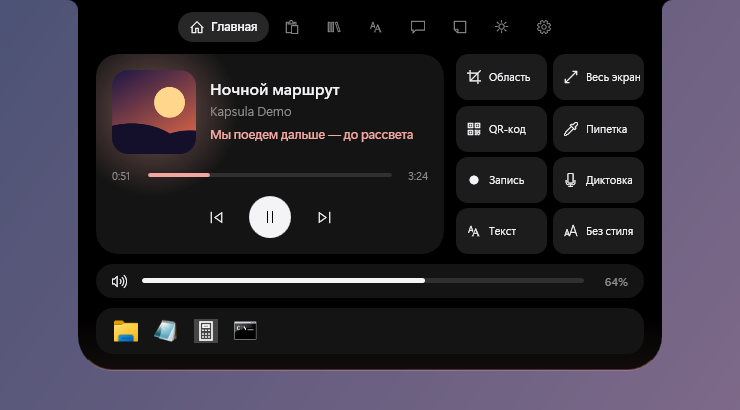
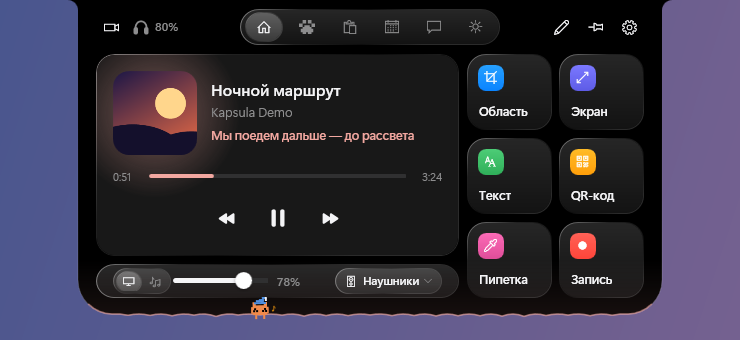
0.7.3: проверка всего дизайна — демо-режим на всех вкладках, видимая чашка «Не засыпать», погода без обрезков, компактные настройки, новые снимки в README
- Демо-режим (--demo, DemoData.cs): буфер обмена не читается (выдуманная история), погода не скачивается (выдуманный прогноз), Wi-Fi, Bluetooth и наушники придуманные, сайт чата не открывается — снимок любой вкладки можно выкладывать.
- Чашка «Не засыпать» — в блоке «Нагрузка» на вкладке «Система», рядом с батареей (строка быстрых настроек, где она была, ни на одной вкладке не показывалась).
- Погода: подпись погоды переносится, а не обрезается; подсказка «Введите город…» не вылезает за края; пустая погода — со зверьком.
- Чат в демо: вместо пустого поля — зверёк и что здесь откроется.
- Настройки: компактная боковая панель — все разделы видны без прокрутки.
- README: все снимки новые (капсула, уголок зверька, главная, мини-плеер, «Сегодня», заметки, буфер, текст, погода, система, командная строка, карточки, настройки), снимки сделаны на выдуманных данных.
- Сценарий KAPSULA_RIDEPET=10 — полный обход всех экранов для снимков.
- Тесты: демо-погода, сети и Bluetooth (308).

diff --git a/src/IslandWindow.cs b/src/IslandWindow.cs
@@ -3646,6 +3646,7 @@ namespace Kapsula
 
         void DuckTick()
         {
+            if (Demo) return;   // в демо сайт чата не открываем
             bool want = Ai.Duck && state == 2 && page == PChat && !hiddenFs && !autoHidden
                 && so[2].X > 0.55 && Math.Abs(sw.X - sw.Target) < 24 && Math.Abs(sy.X - sy.Target) < 3;
             if (!want)
@@ -3680,6 +3681,13 @@ namespace Kapsula
                 RenderWebRow();
                 chatEmpty.Children.Clear();
                 chatEmpty.Visibility = Visibility.Visible;
+                if (Demo)
+                {
+                    // демо: сайт не открываем — вместо него зверёк и что здесь будет
+                    chatEmpty.Children.Add(PetSpot("idle", 0, 12, "chat"));
+                    chatEmpty.Children.Add(new TextBlock { Text = "Здесь откроется " + WebNames[WebIndex()] + " — без ключа и без входа", Foreground = Dim, FontSize = 13, TextAlignment = TextAlignment.Center, HorizontalAlignment = HorizontalAlignment.Center, TextWrapping = TextWrapping.Wrap, MaxWidth = 440 });
+                    return;
+                }
                 bool bad = duck != null && duck.Error != null;
                 // страница уже загружена — под окном браузера ничего не пишем, иначе при каждом открытии мелькает «Открываю…»
                 if (!bad && duck != null && duck.Loaded) return;
@@ -4227,9 +4235,10 @@ namespace Kapsula
         {
             try
             {
-                string t = Clipboard.ContainsText() ? Clipboard.GetText() : "";
+                string full = Demo ? DemoText : Clipboard.ContainsText() ? Clipboard.GetText() : "";   // в демо — выдуманный текст, буфер не читаем
+                string t = full;
                 if (t.Length > 400) t = t.Substring(0, 400);
-                if (textStats != null) textStats.Text = t == "" ? "" : TextTools.Stats(Clipboard.GetText());
+                if (textStats != null) textStats.Text = t == "" ? "" : TextTools.Stats(full);
                 textPreview.Text = t == "" ? "Пусто — скопируйте текст" : t;
                 textPreview.Foreground = t == "" ? Dim : Fg;
             }
@@ -4758,7 +4767,7 @@ namespace Kapsula
             skyTop.Children.Add(wIconHost);
             wSymbol = new TextBlock();   // текстовый значок больше не показывается — вместо него рисунок
             wTemp = new TextBlock { Foreground = Brushes.White, FontSize = 52, FontWeight = FontWeights.Light, Margin = new Thickness(-3, -2, 0, -6) };
-            wDesc = new TextBlock { Foreground = Brushes.White, FontSize = 14, FontWeight = FontWeights.SemiBold };
+            wDesc = new TextBlock { Foreground = Brushes.White, FontSize = 14, FontWeight = FontWeights.SemiBold, TextWrapping = TextWrapping.Wrap, LineHeight = 17, LineStackingStrategy = LineStackingStrategy.BlockLineHeight };   // «Переменная облачность» — в две строки, а не обрезком
             wFeels = new TextBlock { Foreground = Brushes.White, Opacity = 0.85, FontSize = 11.5, Margin = new Thickness(0, 2, 0, 0) };
             wHiLo = new TextBlock { Foreground = Brushes.White, Opacity = 0.85, FontSize = 11.5 };
             skyTop.Children.Add(wTemp); skyTop.Children.Add(wDesc); skyTop.Children.Add(wFeels); skyTop.Children.Add(wHiLo);
@@ -5071,6 +5080,7 @@ namespace Kapsula
 
         void RefreshWeather(string city)
         {
+            if (Demo) return;   // в демо — выдуманный прогноз, в сеть не ходим
             if (string.IsNullOrEmpty(city) || weatherBusy) return;
             weatherBusy = true;
             weatherAt = Environment.TickCount;
@@ -5169,7 +5179,8 @@ namespace Kapsula
             if (weather == null || weather.Error != null)
             {
                 string msg = weather != null ? weather.Error : "Введите город и нажмите «Показать».\nТолько после этого приложение обратится в сеть — к open-meteo.com (если он недоступен — к OpenStreetMap и MET Norway).";
-                weatherBody.Children.Add(new TextBlock { Text = msg, Foreground = Dim, FontSize = 13, TextAlignment = TextAlignment.Center, HorizontalAlignment = HorizontalAlignment.Center, Margin = new Thickness(0, 60, 0, 0), LineHeight = 20 });
+                weatherBody.Children.Add(PetSpot(weather != null ? "sad" : "idle", 18, 10, "weather"));   // пустая погода — тоже со зверьком, как остальные пустые списки
+                weatherBody.Children.Add(new TextBlock { Text = msg, Foreground = Dim, FontSize = 13, TextAlignment = TextAlignment.Center, HorizontalAlignment = HorizontalAlignment.Center, TextWrapping = TextWrapping.Wrap, MaxWidth = 440, Margin = new Thickness(0, 60, 0, 0), LineHeight = 20 });
                 return;
             }
             FillWeather();
@@ -5253,7 +5264,7 @@ namespace Kapsula
             var stats = new Border { Background = Glass.Fill, BorderBrush = Glass.Rim, BorderThickness = new Thickness(1), CornerRadius = new CornerRadius(18), Padding = new Thickness(16, 8, 16, 8) };
             // процессор и память — в одну строку, чтобы над ними поместились яркость и питание
             var rows = new UniformGrid { Rows = 1, Columns = 2 };
-            double statW = (PageW - 32 - 24) / 2 - 96 - 48 + 4 - (BatteryPresent() ? 38 : 0);   // у ноутбука справа — заряд батареи
+            double statW = (PageW - 32 - 24) / 2 - 96 - 48 + 4 - (BatteryPresent() ? 38 : 0) - 19;   // у ноутбука справа — заряд батареи, за ним чашка «Не засыпать»
             cpuBar = new Bar(statW, 5, accent, 22);
             ramBar = new Bar(statW, 5, new SolidColorBrush(Color.FromRgb(0x5A, 0xA9, 0xFF)), 22);
             rows.Children.Add(StatRow("Процессор", cpuBar, out cpuText));
@@ -5264,6 +5275,11 @@ namespace Kapsula
             statsRow.Children.Add(rows);
             FrameworkElement chip = BuildBatChip();
             Grid.SetColumn(chip, 1); statsRow.Children.Add(chip);
+            // «Не засыпать» — чашка рядом с батареей: всё про питание в одном месте
+            statsRow.ColumnDefinitions.Add(new ColumnDefinition { Width = GridLength.Auto });
+            Border cup = AwakeBtn(32);
+            cup.Margin = new Thickness(6, 0, -4, 0); cup.VerticalAlignment = VerticalAlignment.Center;
+            Grid.SetColumn(cup, 2); statsRow.Children.Add(cup);
             stats.Child = statsRow;
             sb.Add("load", "Нагрузка", stats, 0, 3, 4, 1, false);
             WireBoard(sb);
@@ -5380,6 +5396,7 @@ namespace Kapsula
 
         void ScanWifi()
         {
+            if (Demo) { wifiNets = DemoWifi(); RenderWifi(); return; }   // в демо — придуманные сети
             if (wifiBusy) return;
             wifiBusy = true;
             if (wifiNets == null) { wifiList.Children.Clear(); wifiList.Children.Add(new TextBlock { Text = "Ищу сети…", Foreground = Dim, FontSize = 13, HorizontalAlignment = HorizontalAlignment.Center, Margin = new Thickness(0, 70, 0, 0) }); }
@@ -5475,6 +5492,7 @@ namespace Kapsula
         // Состояние сети, Bluetooth и VPN опрашивается в фоне, чтобы интерфейс не замирал.
         void RefreshControl()
         {
+            if (Demo) { control = DemoControl(); RenderControl(); return; }   // в демо — придуманные сеть и Bluetooth
             if (controlBusy) return;
             controlBusy = true;
             ThreadPool.QueueUserWorkItem(delegate
@@ -7371,6 +7389,7 @@ namespace Kapsula
         void BudsChipRefresh()
         {
             if (!Earbuds.Enabled) { budsChipPct = -1; return; }
+            if (Demo) { budsChipName = "Наушники"; budsChipPct = 80; BudsChipRender(); return; }   // в демо — выдуманные наушники, свои не опрашиваем
             if (System.Threading.Interlocked.Exchange(ref budsChipBusy, 1) != 0) return;
             System.Threading.ThreadPool.QueueUserWorkItem(delegate
             {
@@ -8226,7 +8245,7 @@ namespace Kapsula
             if (src != null && src.CompositionTarget != null) dpi = src.CompositionTarget.TransformToDevice.M11;
             SetNoActivate(true);
             HwndSource.FromHwnd(hwnd).AddHook(WndProc);
-            Native.AddClipboardFormatListener(hwnd);
+            if (!Demo) Native.AddClipboardFormatListener(hwnd);   // в демо буфер обмена не читается
             // Остров не попадает на скриншоты, записи и трансляции.
             ApplyCapture();
             PlaceWindow();
@@ -8334,6 +8353,7 @@ namespace Kapsula
                 media = new MediaInfo { Has = true, Playing = true, Title = "Ночной маршрут", Artist = "Kapsula Demo", Cover = DemoCover(), Pos = 47, Dur = 204, PosAt = DateTime.UtcNow };
                 RenderMedia();
                 LoadLauncher();
+                DemoSeed();   // буфер, погода — выдуманные
                 if (Environment.GetEnvironmentVariable("KAPSULA_TRACKTEST") == "1")
                 {
                     // проверка перехода: каждые 2,5 с другой трек (обложка — перевёрнутая, чтобы было видно её смену)

diff --git a/src/DemoData.cs b/src/DemoData.cs
@@ -1,0 +1,80 @@
+// Kapsula — «остров» для Windows. Часть исходного кода: DemoData.cs
+// Демо-режим (ключ --demo) — для снимков в описание: на всех вкладках выдуманные данные, а не ваши.
+// Буфер обмена не читается (в истории — придуманные записи), погода не скачивается (выдуманный город
+// и прогноз), сети Wi-Fi и устройства Bluetooth — тоже придуманные. Так снимок любой вкладки можно
+// выкладывать: ничего личного на него не попадёт.
+using System;
+using System.Collections.Generic;
+
+namespace Kapsula
+{
+    partial class IslandWindow
+    {
+        const string DemoText = "Kapsula — остров для Windows: музыка, заметки, буфер и зверёк в одной капсуле.";
+
+        // Из блока --demo при запуске: история буфера и погода
+        void DemoSeed()
+        {
+            clips.Clear();
+            DateTime now = DateTime.Now;
+            clips.Add(new ClipItem { Text = "Встреча в 15:00, переговорная 2", Source = "Заметки", At = now.AddMinutes(-2) });
+            clips.Add(new ClipItem { Text = "https://github.com/cxxperman/kapsula", Source = "Браузер", At = now.AddMinutes(-9) });
+            clips.Add(new ClipItem { Text = "#F08A4B", Source = "Пипетка", At = now.AddMinutes(-16) });
+            clips.Add(new ClipItem { Text = "var pet = new PetView(2.6, Ink);", Source = "Редактор кода", At = now.AddMinutes(-34) });
+            clips.Add(new ClipItem { Text = DemoText, Source = "Kapsula", At = now.AddHours(-2), Pinned = true });
+            weather = DemoWeather();
+            if (weatherGrid != null) RenderWeather();   // вкладка уже построена с пустой погодой
+            RenderClips();   // список уже построен пустым — перерисовать
+        }
+
+        static string DemoDeg(double v) { return Math.Round(v).ToString("0").Replace("-", "−") + "°"; }
+
+        // Прохладный осенний день: облачно, к вечеру небольшой дождь
+        static WeatherData DemoWeather()
+        {
+            var w = new WeatherData
+            {
+                City = "Нью-Йорк", Source = "демо", Temp = 8, Max = 10, Min = 3, Feels = 5, Wind = 4.2, WindDir = 225, Humidity = 72, Pressure = 758,
+                Uv = 1.4, RainProb = 35, DewPoint = 3, PressureTrend = -0.6, UvTomorrow = 2, RainMm = 0.6, Sunrise = "06:41", Sunset = "16:37", IsDay = true, Code = 2
+            };
+            DateTime h0 = DateTime.Now.Date.AddHours(DateTime.Now.Hour);
+            int[] codes = { 2, 2, 3, 3, 61, 61, 3, 2, 1, 1, 2, 3 };
+            double[] temps = { 8, 9, 9, 8, 7, 7, 6, 5, 5, 4, 4, 3 };
+            for (int i = 0; i < codes.Length; i++)
+            {
+                DateTime t = h0.AddHours(i);
+                bool day = t.Hour >= 7 && t.Hour < 17;
+                w.Hours.Add(new string[] { t.ToString("HH:mm"), Weather.Symbol(codes[i]), DemoDeg(temps[i]), codes[i].ToString(), day ? "1" : "0" });
+            }
+            var ru = new System.Globalization.CultureInfo("ru-RU");
+            int[] dcodes = { 2, 61, 3, 1, 0, 3, 71 };
+            double[] dmax = { 10, 9, 7, 8, 11, 6, 2 }, dmin = { 3, 4, 2, 1, 3, 0, -3 };
+            for (int i = 0; i < dcodes.Length; i++)
+            {
+                string dn = ru.DateTimeFormat.GetAbbreviatedDayName(DateTime.Today.AddDays(i).DayOfWeek);
+                w.Days.Add(new string[] { i == 0 ? "Сегодня" : char.ToUpper(dn[0]) + dn.Substring(1), Weather.Symbol(dcodes[i]), DemoDeg(dmax[i]), DemoDeg(dmin[i]), dcodes[i].ToString() });
+            }
+            return w;
+        }
+
+        // Сеть, Wi-Fi и Bluetooth на вкладке «Система»
+        static ControlState DemoControl()
+        {
+            var c = new ControlState { NetUp = true, HasWifi = true, NetName = "Wi-Fi", WifiOn = true, BtOn = true };
+            c.Bt.Add(new BtDevice { Name = "Наушники", Connected = true });
+            c.Bt.Add(new BtDevice { Name = "Колонка на кухне", Connected = false });
+            c.BtBattery["Наушники"] = 80;
+            return c;
+        }
+
+        static List<WifiNet> DemoWifi()
+        {
+            return new List<WifiNet>
+            {
+                new WifiNet { Ssid = "Kapsula Home", Signal = 92, Secure = true, Connected = true, Known = true },
+                new WifiNet { Ssid = "Кофейня — гости", Signal = 64, Secure = false },
+                new WifiNet { Ssid = "Office 5G", Signal = 41, Secure = true }
+            };
+        }
+    }
+}

diff --git a/src/SettingsWindow.cs b/src/SettingsWindow.cs
@@ -979,12 +979,12 @@ namespace Kapsula
                 // как в настройках macOS: белый значок на цветной скруглённой плитке с бликом сверху
                 row.Children.Add(new Border
                 {
-                    Width = 24, Height = 24, CornerRadius = new CornerRadius(7), Background = Glass.Tinted(tint), BorderBrush = Glass.DarkRim, BorderThickness = new Thickness(0.8),
+                    Width = 22, Height = 22, CornerRadius = new CornerRadius(6.5), Background = Glass.Tinted(tint), BorderBrush = Glass.DarkRim, BorderThickness = new Thickness(0.8),
                     Margin = new Thickness(0, 0, 10, 0), VerticalAlignment = VerticalAlignment.Center,
-                    Child = name == "Зверёк" ? (UIElement)Ui.Paw(1.45, Brushes.White) : new TextBlock { Text = SectionGlyphs[i], FontFamily = new FontFamily("Segoe Fluent Icons, Segoe MDL2 Assets"), FontSize = 12.5, Foreground = Brushes.White, HorizontalAlignment = HorizontalAlignment.Center, VerticalAlignment = VerticalAlignment.Center }
+                    Child = name == "Зверёк" ? (UIElement)Ui.Paw(1.35, Brushes.White) : new TextBlock { Text = SectionGlyphs[i], FontFamily = new FontFamily("Segoe Fluent Icons, Segoe MDL2 Assets"), FontSize = 12, Foreground = Brushes.White, HorizontalAlignment = HorizontalAlignment.Center, VerticalAlignment = VerticalAlignment.Center }
                 });
                 row.Children.Add(new TextBlock { Text = name, Foreground = Txt, FontSize = 13, FontWeight = FontWeights.Medium, VerticalAlignment = VerticalAlignment.Center });
-                var item = new Border { Height = 36, CornerRadius = new CornerRadius(11), Padding = new Thickness(7, 0, 10, 0), Margin = new Thickness(0, 0, 0, 2), Background = Brushes.Transparent, BorderBrush = Brushes.Transparent, BorderThickness = new Thickness(1), Cursor = Cursors.Hand, Child = row, Tag = name };
+                var item = new Border { Height = 30, CornerRadius = new CornerRadius(9), Padding = new Thickness(6, 0, 10, 0), Margin = new Thickness(0, 0, 0, 1),   /* компактно, как в macOS: все разделы видны без прокрутки */ Background = Brushes.Transparent, BorderBrush = Brushes.Transparent, BorderThickness = new Thickness(1), Cursor = Cursors.Hand, Child = row, Tag = name };
                 item.MouseLeftButtonDown += delegate { ShowSection(name); };
                 item.MouseEnter += delegate { if ((string)item.Tag != currentSection) item.Background = NavHover; };
                 Fx.Press(item, 0.97);

diff --git a/src/Rider.cs b/src/Rider.cs
@@ -703,6 +703,23 @@ namespace Kapsula
             }
             // =8: остров просто в капсуле — для карточек --democard (кубок за достижение): вкладки не листаются
             if (rp == "8") return;
+            // =10: полный обход для обзора дизайна (всё в демо-данных): капсула, все вкладки по очереди, мини-плеер,
+            // карточки сообщения, Discord и приглашения, командная строка
+            if (rp == "10")
+            {
+                int[] tour = { PHome, PPet, PClip, PShelf, PText, PToday, PNote, PNotif, PChat, PWeather, PSystem };
+                for (int i = 0; i < tour.Length; i++) { int p = tour[i]; ClaudeAfter(3000 + i * 2600, delegate { pinned = true; ShowPage(p); SetState(2); }); }
+                int t = 3000 + tour.Length * 2600;
+                ClaudeAfter(t, delegate { SetState(0); });
+                ClaudeAfter(t + 1200, delegate { ForceOpen = -2; SetState(1); });   // мини-плеер (без курсора — держим его открытым)
+                ClaudeAfter(t + 4200, delegate { ForceOpen = -1; pinned = false; SetState(0); });
+                ClaudeAfter(t + 5400, delegate { SteamNotify("Марк", "го вечером в кооп?", DemoAvatar("М", Color.FromRgb(0x4F, 0x8D, 0xF7), Color.FromRgb(0x8A, 0x5C, 0xF6)), delegate { }, "0"); });
+                ClaudeAfter(t + 10400, delegate { DiscordNotify("Саша", "скинул скрин, глянь", DemoAvatar("С", Color.FromRgb(0x34, 0xC7, 0x8A), Color.FromRgb(0x2A, 0x8F, 0xD8))); });
+                ClaudeAfter(t + 15400, delegate { SteamInvite("Лена", "Зовёт в игру", DemoAvatar("Л", Color.FromRgb(0xF2, 0x8B, 0x52), Color.FromRgb(0xE8, 0x4A, 0x7A)), "", ""); });
+                ClaudeAfter(t + 20400, delegate { SetState(0); ToggleCommand(); cmdBox.Text = "2400 * 15%"; });
+                ClaudeAfter(t + 24400, delegate { SetState(0); });
+                return;
+            }
             // =9: оформление — «Главная», потом карточка с выбором (стеклянные кнопки), потом «Сегодня»
             if (rp == "9")
             {

diff --git a/README.md b/README.md
@@ -6,28 +6,38 @@
 
 > **Ранняя альфа.** Всё может ломаться и меняться. Проверялось на одном компьютере с Windows 11.
 
-![Капсула в свёрнутом виде](docs/screenshots/pill.png)
+![Капсула в свёрнутом виде: обложка, время, погода и зверёк](docs/screenshots/pill.png)
+
+![Уголок зверька: зверёк на подушке и гардероб нарядов за привычки](docs/screenshots/pet.png)
+
+![Главная панель: музыка с текстом песни, быстрые действия и громкость](docs/screenshots/home.png)
 
 ![Мини-плеер с текстом песни](docs/screenshots/mini.png)
 
-![Главная панель: музыка с текстом песни, снимки экрана, громкость и программы](docs/screenshots/home.png)
-
-| Командная строка | Чат с Claude |
+| Сегодня | Заметки и таймер |
 |---|---|
-| ![Командная строка считает проценты](docs/screenshots/command.png) | ![Чат с Claude](docs/screenshots/chat.png) |
+| ![Календарь и задачи на сегодня](docs/screenshots/today.png) | ![Заметки, папки и таймер](docs/screenshots/note.png) |
 
-| Заметки и таймер | Работа с текстом |
+| Буфер обмена | Работа с текстом |
 |---|---|
-| ![Заметки, задачи и таймер](docs/screenshots/note.png) | ![Преобразования текста из буфера](docs/screenshots/text.png) |
+| ![История буфера с фильтрами](docs/screenshots/clip.png) | ![Преобразования текста из буфера](docs/screenshots/text.png) |
 
-![Уведомления Steam и Discord: сообщение с ответом, приглашение в игру, сообщение из Discord](docs/screenshots/notifications.png)
+| Погода | Система |
+|---|---|
+| ![Погода с приборами на плитках](docs/screenshots/weather.png) | ![Сеть, Bluetooth, тема, питание и нагрузка](docs/screenshots/system.png) |
+
+| Командная строка | Карточки уведомлений |
+|---|---|
+| ![Командная строка считает проценты](docs/screenshots/command.png) | ![Сообщение Steam с ответом, сообщение из Discord и приглашение в игру](docs/screenshots/notifications.png) |
 
 <details>
 <summary>Настройки</summary>
 
-![Окно настроек](docs/screenshots/settings.png)
+![Окно настроек: раздел «Зверёк»](docs/screenshots/settings.png)
 
 </details>
+
+<sub>Все снимки сделаны в демо-режиме (`Kapsula.exe --demo`): трек, буфер обмена, погода, сети Wi-Fi и наушники на них выдуманные.</sub>
 
 ## Что умеет
 
@@ -59,7 +69,7 @@
 - **Наушники** — заряд AirPods и Beats в панели и при подключении, предупреждение о низком заряде. Наушники сами сообщают заряд по Bluetooth; Kapsula только слушает.
 - **Матовое стекло** — раскрытая панель полупрозрачная, фон за ней размыт (включается в настройках).
 - **Один язык оформления в духе Apple** — все блоки острова (плитки, плеер, громкость, календарь, заметка, таймер, приборы погоды, карточки) — одно «жидкое стекло» с одинаковыми углами, строки списков — то же стекло поменьше, все переключатели вкладок и режимов одинаковые, кнопки трёх видов: стекло, залитая цветом главная и значок без подложки. Кнопки, плитки и вкладки — «жидкое стекло», как в iOS и macOS последних лет: полупрозрачная заливка чуть светлее сверху, тонкая светлая кромка с бликом, под курсором стекло светлеет. Переключатели в настройках — как в iOS, ползунки громкости и яркости — с круглой белой ручкой, подсказки — тёмное стекло со скруглёнными углами, у разделов настроек — цветные значки, как в macOS. Всё нарисовано заново: ни шрифтов, ни значков, ни картинок Apple в Kapsula нет.
-- **Не засыпать** — чашка на вкладке «Погода и система», команда «не засыпать» в строке острова (можно на время: «не засыпать 2 ч», «кофе 30 мин») или пункт в меню значка у часов: компьютер не уснёт и экран не погаснет — пока качается файл, идёт презентация или вы читаете с экрана. В капсуле в это время стоит маленькая чашка с паром. Режим сам выключается, когда выйдет время, и на батарее ниже 10 %; после перезапуска Kapsula не возвращается.
+- **Не засыпать** — чашка в блоке «Нагрузка» на вкладке «Система» (рядом с батареей), команда «не засыпать» в строке острова (можно на время: «не засыпать 2 ч», «кофе 30 мин») или пункт в меню значка у часов: компьютер не уснёт и экран не погаснет — пока качается файл, идёт презентация или вы читаете с экрана. В капсуле в это время стоит маленькая чашка с паром. Режим сам выключается, когда выйдет время, и на батарее ниже 10 %; после перезапуска Kapsula не возвращается.
 - **Календарь, помодоро, быстрые заметки, «Не беспокоить», история уведомлений** — команды в строке острова: `календарь`, `помодоро`, `заметка …`, `тихо`, `уведомления`.
 - **Задачи с датами на «Сегодня»** — пишите обычной фразой: «отчёт, потом в 14:00 созвон», «в пятницу в 10 врач», «15 ноября день рождения», «через неделю отпуск», «на 20.11 билеты», «на выходных уборка». Под задачами дня — «Скоро»: что впереди на неделю (щелчок по дню открывает его в календаре). Задача со временем в свой час приходит карточкой: зверёк приносит колокольчик и звонит в него, а кнопка «Готово» отмечает задачу. Повторяющиеся — «каждый день в 9 зарядка», «по будням в 8 …», «по выходным …», «каждый понедельник …», «по понедельникам и средам …», «каждое 15-е число …»: у них значок повтора, а «Готово» переносит задачу на следующий раз. Перенести задачу на другой день — перетащите её на число в календаре. Стрелочка справа у задачи раскрывает под ней заметку (что взять, кому позвонить, ссылку) — пишется и сохраняется сама, а первая строка заметки придёт и на карточке задачи. Строки «- …» в заметке становятся шагами: над заметкой — пункты с отметкой, у задачи видно, сколько сделано («1/3»). «Когда-нибудь выучить испанский» или «… без даты» — задача без дня: она в отдельном списке «Когда-нибудь», а когда придёт время, её можно перетащить на число. Кнопка «Неделя» над календарём раскладывает неделю на семь колонок: задачи и события каждого дня рядом, сегодняшний день выделен, просроченное — в нём же; задачу можно перетащить в другой день, повторяющиеся бледно видны и в следующие свои дни, а поле внизу добавляет задачу прямо на показанную неделю («в чт в 19 кино»). За 15 минут до задачи со временем или события календаря капсула показывает отсчёт, как «живая активность» на iPhone: название слева, «12 мин» справа (пока играет музыка — только последние 5 минут; выключается в настройках). Из строки команд острова: «задача в пятницу в 10 отчёт» — сразу видно, на какой день она ляжет, Enter добавляет; «задачи» (или «дела») — список на сегодня, щелчок отмечает, а список остаётся открытым.
 - **Claude Code** — когда он просит разрешение, а вы в другой программе, на острове появляется карточка «Разрешить / Всегда / Отклонить»; вопросы с вариантами приходят кнопками; когда он закончил, видно начало ответа и можно написать ему прямо с острова; остановить его можно из значка у часов или командой «стоп claude». Подключается кнопкой в настройках: Kapsula дописывает четыре http-хука в `~/.claude/settings.json` (прежний файл сохраняется рядом). Запросы идут только на этот компьютер (порт 42072) и подписаны случайной меткой.

diff --git a/docs/ROADMAP.md b/docs/ROADMAP.md
@@ -164,7 +164,7 @@
 - **0.4:** экран яркости — полоска в капсуле, как у громкости; Ctrl + колёсико над островом меняет яркость.
 - **0.5:** заряд батареи ноутбука рядом с нагрузкой; карточка «Батарея садится» на 20 % и 10 % — раскрывается прямо сюда.
 - **Дальше:** раскладка блоков по сезону.
-- **0.7.1:** «Не засыпать» — чашка рядом с ночным светом, команда «не засыпать 2 ч» и пункт в меню у часов; компьютер не уснёт, в капсуле — чашка с паром; сам выключается по времени и на батарее ниже 10 %.
+- **0.7.1:** «Не засыпать» — чашка (с 0.7.3 — в блоке «Нагрузка», рядом с батареей), команда «не засыпать 2 ч» и пункт в меню у часов; компьютер не уснёт, в капсуле — чашка с паром; сам выключается по времени и на батарее ниже 10 %.
 
 ### Карточки и строка команд
 
@@ -213,6 +213,14 @@
 - Строки списков (уведомления, буфер, сети Wi-Fi, напоминания, команды) — одно стекло с одинаковыми углами.
 - Страница пульта на телефоне — тоже стекло: вкладки-капсула, карточки и кнопки с кромкой, красная кнопка залита цветом.
 
+**Готово в 0.7.3 — проверка всего дизайна:**
+
+- Демо-режим (`--demo`) на всех вкладках: буфер обмена не читается (в истории — выдуманные записи), погода не скачивается (выдуманный прогноз), сети Wi-Fi, Bluetooth и наушники — придуманные, сайт чата не открывается. Снимок любой вкладки можно выкладывать.
+- Чашка «Не засыпать» теперь видна: она стоит в блоке «Нагрузка» на вкладке «Система», рядом с батареей (строка, где она была, ни на одной вкладке не показывалась).
+- Погода: длинная подпись («Переменная облачность») переносится, а не обрезается; пустая погода и чат в демо — со зверьком, как остальные пустые списки; подсказка «Введите город…» больше не вылезает за края.
+- Настройки: боковая панель компактнее, как в macOS, — все разделы видны без прокрутки.
+- Новые снимки в README: капсула, уголок зверька, главная, мини-плеер, «Сегодня», заметки, буфер, текст, погода, система, командная строка, карточки и настройки.
+
 ## 6. Лёгкость
 
 - Форма острова перерисовывается только пока движется; жидкий край — около 60 раз в секунду, а не на каждый кадр монитора.
@@ -236,3 +244,4 @@
 - [x] **0.7** — входящий звонок Discord на острове с кнопками «Принять» и «Отклонить»; зверька можно погладить курсором, он ловит курсор, машет друзьям в Discord, приносит кубок и трубку, празднует сделанный день, ночью носит колпак, гуляет по панели задач и второму монитору, живёт на пульте в телефоне; зверёк реагирует на наушники, снимки экрана, пропавший интернет и обновления Windows и машет, когда вы вернулись; задачи с датами и повторяющиеся задачи на «Сегодня» (вид «Неделя» с семью колонками, карточка задачи в её час и отсчёт до неё в капсуле, перенос перетаскиванием, задачи из строки команд, заметка с шагами, «Когда-нибудь»); Kapsula отдаёт системе неиспользуемую память, а под музыку берёт втрое меньше процессора; пульт и звонки Discord больше не делят порт.
 - [x] **0.7.1** — оформление в духе Apple («жидкое стекло», переключатели и ползунки как в iOS, стеклянные подсказки, значки разделов настроек), «Не засыпать», часы в таймере звонка.
 - [x] **0.7.2** — один язык оформления (одно стекло для всех блоков, одинаковые углы, переключатели и строки списков), зверёк в центре: своя вкладка с лапкой и первый раздел настроек с живым зверьком.
+- [x] **0.7.3** — проверка всего дизайна: демо-режим на всех вкладках, видимая чашка «Не засыпать», перенос подписи погоды, компактная боковая панель настроек, новые снимки в README.
